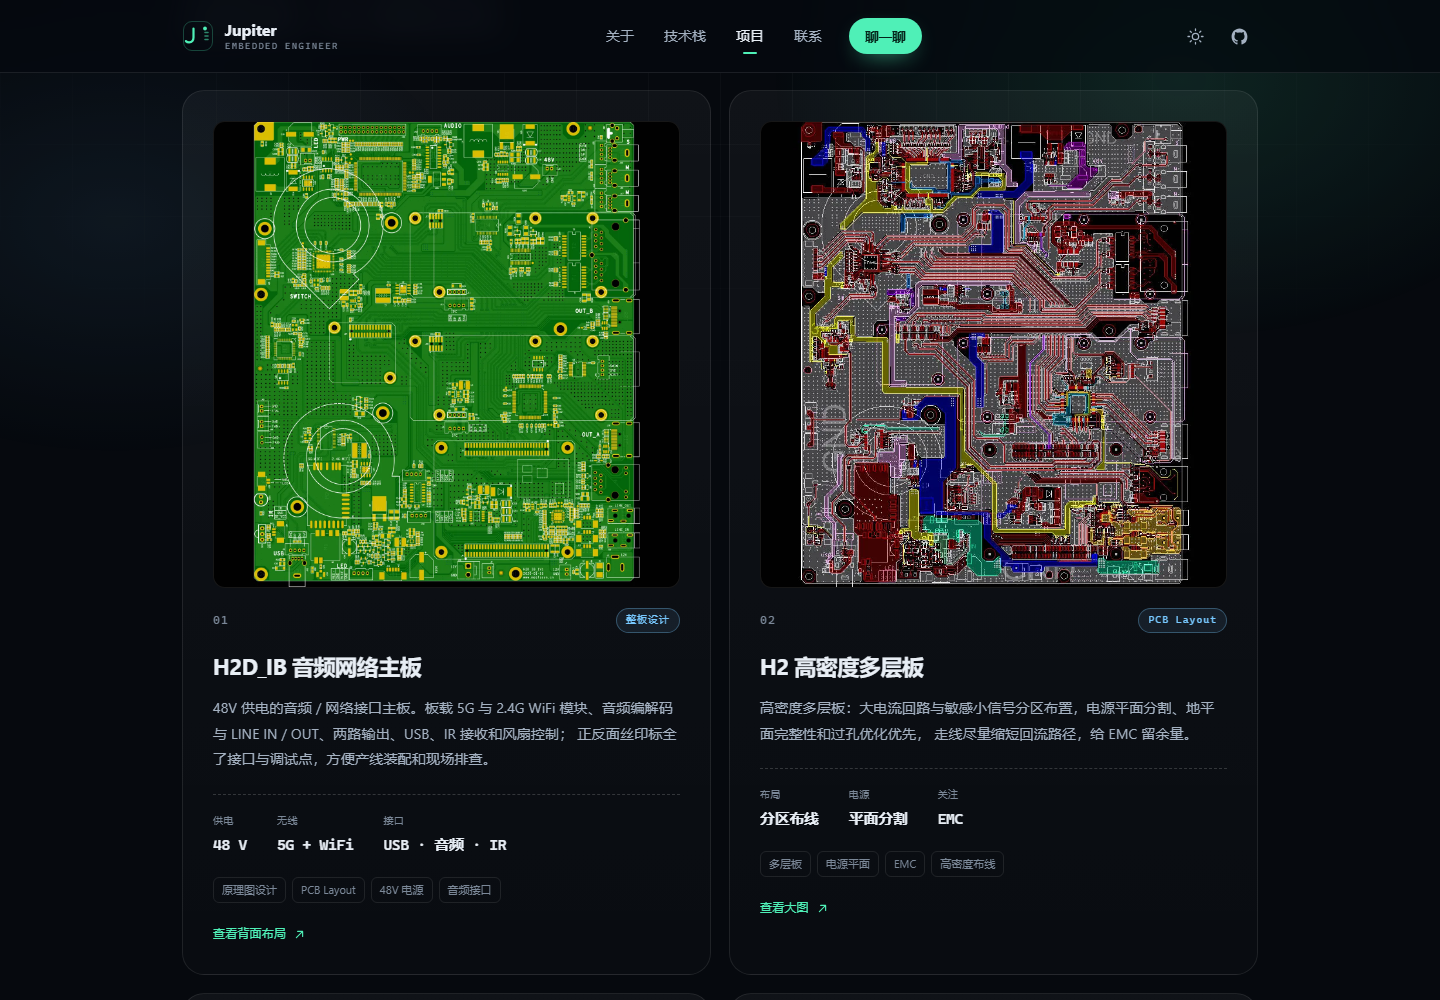
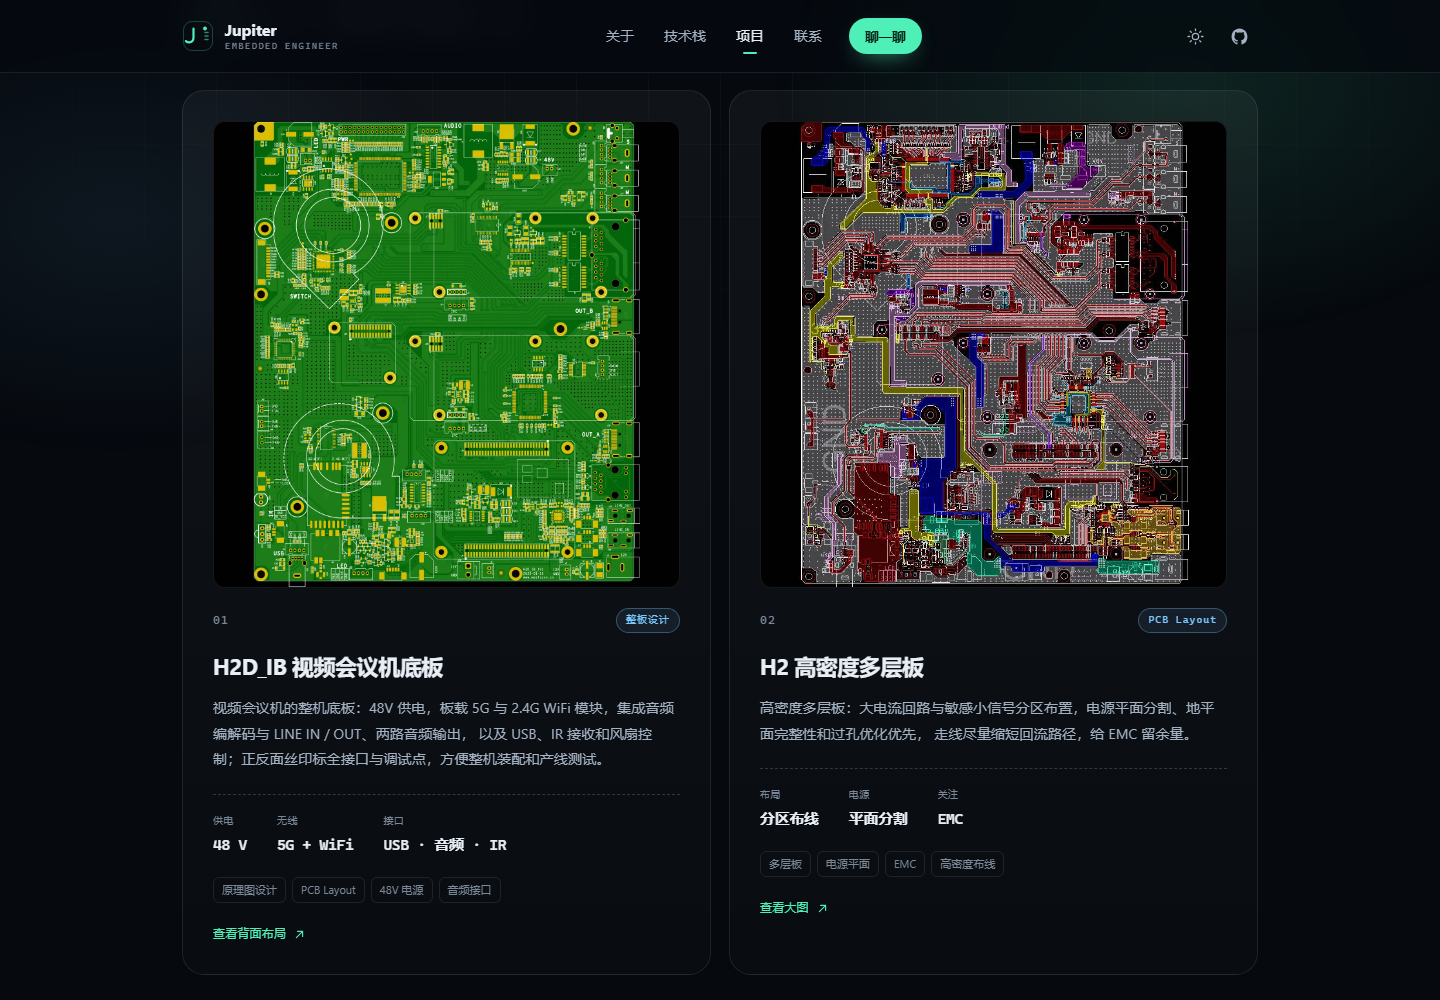
feat: H2D_IB 改为视频会议机底板，项目精简为两个板级项目

Changed region(s): [[0.1562, 0.651, 0.4688, 0.775], [0.5312, 0.992, 0.8438, 1.0], [0.1562, 0.992, 0.4688, 1.0]]

diff --git a/index.html b/index.html
@@ -510,22 +510,22 @@
       <header class="section__head reveal">
         <p class="eyebrow"><span>03</span> / 项目</p>
         <h2 class="section__title">做过的东西，<br>大多还在现场跑着。</h2>
-        <p class="section__desc">从板级硬件到固件，下面几个都是落地过的项目。</p>
+        <p class="section__desc">从原理图到 Layout，下面两块板子都完整走了一遍。</p>
       </header>
 
       <div class="projects">
         <article class="project project--media reveal">
-          <a class="project__media" href="assets/img/projects/h2d-ib-top.webp" target="_blank" rel="noopener" aria-label="查看 H2D_IB 主板正面大图">
-            <img src="assets/img/projects/h2d-ib-top.webp" alt="H2D_IB 音频网络主板正面：48V 输入、音频接口、5G 与 2.4G WiFi 模块" width="1200" height="1442" loading="lazy" decoding="async">
+          <a class="project__media" href="assets/img/projects/h2d-ib-top.webp" target="_blank" rel="noopener" aria-label="查看 H2D_IB 视频会议机底板正面大图">
+            <img src="assets/img/projects/h2d-ib-top.webp" alt="H2D_IB 视频会议机底板正面：48V 输入、音频接口、5G 与 2.4G WiFi 模块" width="1200" height="1442" loading="lazy" decoding="async">
           </a>
           <div class="project__top">
             <span class="project__index">01</span>
             <span class="tag tag--hw">整板设计</span>
           </div>
-          <h3 class="project__title">H2D_IB 音频网络主板</h3>
+          <h3 class="project__title">H2D_IB 视频会议机底板</h3>
           <p class="project__desc">
-            48V 供电的音频 / 网络接口主板。板载 5G 与 2.4G WiFi 模块、音频编解码与 LINE IN / OUT、两路输出、USB、IR 接收和风扇控制；
-            正反面丝印标全了接口与调试点，方便产线装配和现场排查。
+            视频会议机的整机底板：48V 供电，板载 5G 与 2.4G WiFi 模块，集成音频编解码与 LINE IN / OUT、两路音频输出，
+            以及 USB、IR 接收和风扇控制；正反面丝印标全接口与调试点，方便整机装配和产线测试。
           </p>
           <dl class="metrics">
             <div><dt>供电</dt><dd>48 V</dd></div>
@@ -567,108 +567,7 @@
             <svg viewBox="0 0 24 24" width="15" height="15" fill="none" stroke="currentColor" stroke-width="1.8" stroke-linecap="round" stroke-linejoin="round" aria-hidden="true"><path d="M7 17 17 7M9 7h8v8"/></svg>
           </a>
         </article>
-
-        <article class="project reveal">
-          <div class="project__top">
-            <span class="project__index">03</span>
-            <span class="tag tag--live">量产</span>
-          </div>
-          <h3 class="project__title">工业 CAN 采集网关</h3>
-          <p class="project__desc">
-            基于 STM32F407 + FreeRTOS 的八通道模拟量采集网关。本地做滑动平均与阈值判断，通过 Modbus RTU 上传 PLC，
-            支持参数远程配置与固件 OTA，掉电后自动恢复上次工作状态。
-          </p>
-          <dl class="metrics">
-            <div><dt>采样率</dt><dd>10 kHz</dd></div>
-            <div><dt>通道</dt><dd>8 路</dd></div>
-            <div><dt>连续运行</dt><dd>90 天</dd></div>
-          </dl>
-          <ul class="tags">
-            <li>STM32F407</li><li>FreeRTOS</li><li>CAN 2.0B</li><li>Modbus RTU</li>
-          </ul>
-          <a class="project__link" href="https://github.com/Jupiter1028" target="_blank" rel="noopener">
-            查看代码
-            <svg viewBox="0 0 24 24" width="15" height="15" fill="none" stroke="currentColor" stroke-width="1.8" stroke-linecap="round" stroke-linejoin="round" aria-hidden="true"><path d="M7 17 17 7M9 7h8v8"/></svg>
-          </a>
-        </article>
-
-        <article class="project reveal">
-          <div class="project__top">
-            <span class="project__index">04</span>
-            <span class="tag tag--live">量产</span>
-          </div>
-          <h3 class="project__title">低功耗 BLE 温振传感器</h3>
-          <p class="project__desc">
-            nRF52832 + 数字温振传感器，RTC 定时唤醒，采集三轴振动特征值后通过 BLE 广播。
-            整机休眠电流 1.8 µA，两节 AA 电池设计寿命三年，外壳 IP67。
-          </p>
-          <dl class="metrics">
-            <div><dt>休眠电流</dt><dd>1.8 µA</dd></div>
-            <div><dt>电池寿命</dt><dd>3 年</dd></div>
-            <div><dt>协议</dt><dd>BLE 5.0</dd></div>
-          </dl>
-          <ul class="tags">
-            <li>nRF52832</li><li>BLE 5.0</li><li>低功耗</li><li>I2C</li>
-          </ul>
-          <a class="project__link" href="https://github.com/Jupiter1028" target="_blank" rel="noopener">
-            查看代码
-            <svg viewBox="0 0 24 24" width="15" height="15" fill="none" stroke="currentColor" stroke-width="1.8" stroke-linecap="round" stroke-linejoin="round" aria-hidden="true"><path d="M7 17 17 7M9 7h8v8"/></svg>
-          </a>
-        </article>
-
-        <article class="project reveal">
-          <div class="project__top">
-            <span class="project__index">05</span>
-            <span class="tag tag--wip">在研</span>
-          </div>
-          <h3 class="project__title">无刷电机 FOC 控制器</h3>
-          <p class="project__desc">
-            STM32G431 + 三电阻采样，20 kHz 电流环、1 kHz 速度环、位置环三环控制。
-            支持霍尔与无感启动，带过流、过温、堵转保护，硬件保护响应小于 10 µs。
-          </p>
-          <dl class="metrics">
-            <div><dt>电流环</dt><dd>20 kHz</dd></div>
-            <div><dt>速度环</dt><dd>1 kHz</dd></div>
-            <div><dt>保护响应</dt><dd>&lt; 10 µs</dd></div>
-          </dl>
-          <ul class="tags">
-            <li>STM32G4</li><li>FOC</li><li>三电阻采样</li><li>控制算法</li>
-          </ul>
-          <a class="project__link" href="https://github.com/Jupiter1028" target="_blank" rel="noopener">
-            查看代码
-            <svg viewBox="0 0 24 24" width="15" height="15" fill="none" stroke="currentColor" stroke-width="1.8" stroke-linecap="round" stroke-linejoin="round" aria-hidden="true"><path d="M7 17 17 7M9 7h8v8"/></svg>
-          </a>
-        </article>
-
-        <article class="project reveal">
-          <div class="project__top">
-            <span class="project__index">06</span>
-            <span class="tag tag--oss">开源</span>
-          </div>
-          <h3 class="project__title">嵌入式小工具箱</h3>
-          <p class="project__desc">
-            日常用的一组 C99 小工具：环形缓冲区、分级日志、命令行解析器、CRC16 查表生成器。
-            全部无动态内存、可裁剪，最小配置只占 4 KB Flash。
-          </p>
-          <dl class="metrics">
-            <div><dt>Flash</dt><dd>4 KB</dd></div>
-            <div><dt>标准</dt><dd>C99</dd></div>
-            <div><dt>许可</dt><dd>MIT</dd></div>
-          </dl>
-          <ul class="tags">
-            <li>C99</li><li>无动态内存</li><li>单元测试</li><li>开源</li>
-          </ul>
-          <a class="project__link" href="https://github.com/Jupiter1028" target="_blank" rel="noopener">
-            查看代码
-            <svg viewBox="0 0 24 24" width="15" height="15" fill="none" stroke="currentColor" stroke-width="1.8" stroke-linecap="round" stroke-linejoin="round" aria-hidden="true"><path d="M7 17 17 7M9 7h8v8"/></svg>
-          </a>
-        </article>
       </div>
-
-      <p class="projects__more reveal">
-        更多代码和笔记在
-        <a href="https://github.com/Jupiter1028" target="_blank" rel="noopener">GitHub ↗</a>
-      </p>
     </div>
   </section>
 

diff --git a/assets/css/style.css b/assets/css/style.css
@@ -1033,14 +1033,6 @@ code { font-family: var(--font-mono); font-size: 0.92em; }
 .project__link svg { transition: transform 0.25s var(--ease); }
 .project__link:hover svg { transform: translate(2px, -2px); }
 
-.projects__more {
-  margin-top: 34px;
-  text-align: center;
-  font-size: 13.5px;
-  color: var(--text-3);
-}
-.projects__more a { color: var(--accent); border-bottom: 1px solid var(--accent-line); }
-
 /* ---------- 11. 联系 ---------- */
 #contact { padding-top: clamp(52px, 7vw, 84px); }
 .contact {

diff --git a/README.md b/README.md
@@ -67,7 +67,7 @@ python -m http.server 8000
 | `.stats` | 4 个数字：年限、项目数、驱动数、休眠电流 |
 | `#about` | 自我介绍三段、3 条工作原则、`最近在折腾` |
 | `#skills` | 6 个技能卡片里的标签（绿色 `.chip--core` 表示最熟的） |
-| `#work` | 6 个项目：标题、描述、3 个指标、标签、配图与图片链接 |
+| `#work` | 2 个项目：标题、描述、3 个指标、标签、配图与图片链接 |
 | `#contact` | 邮箱、GitHub、坐标、状态；`.contact__facts` 里的资料；微信卡片里的文案 |
 | 页脚 | 版权年份（JS 会自动更新） |
 
